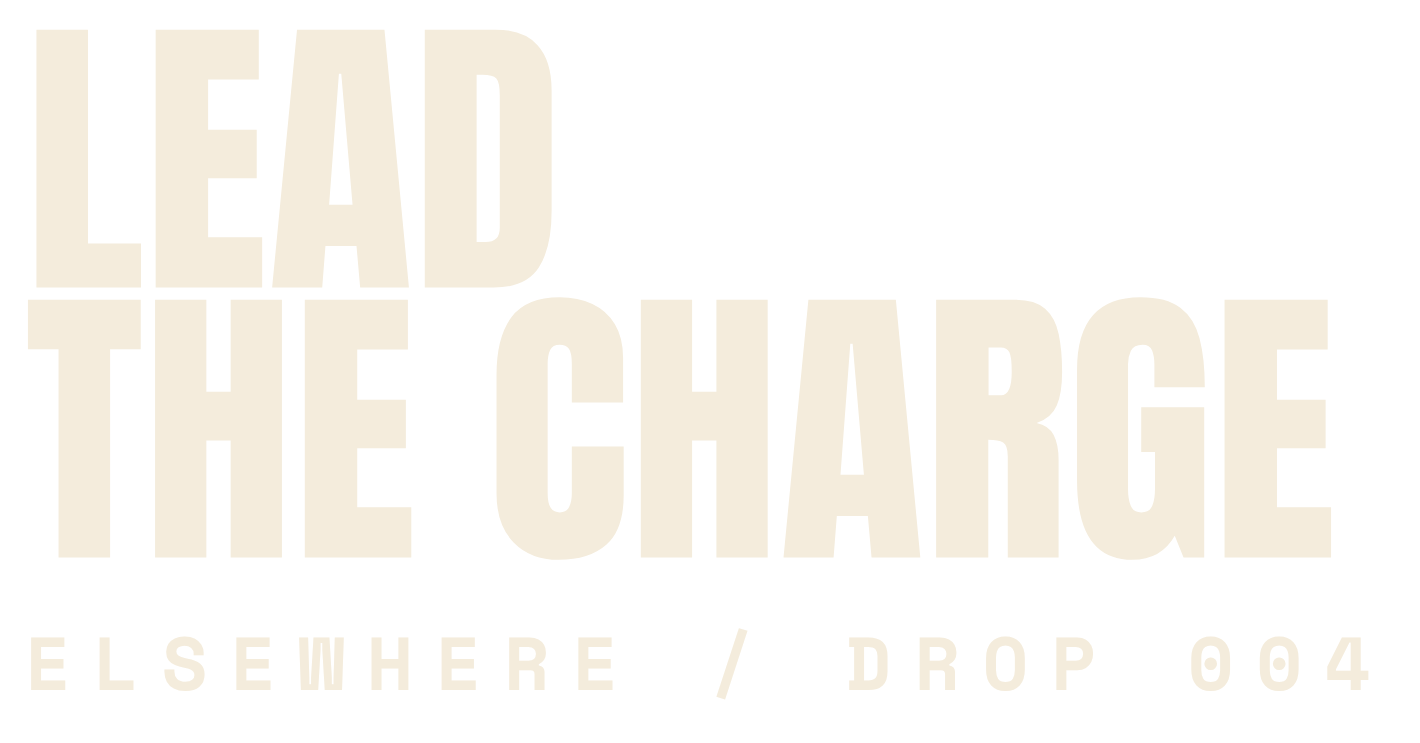
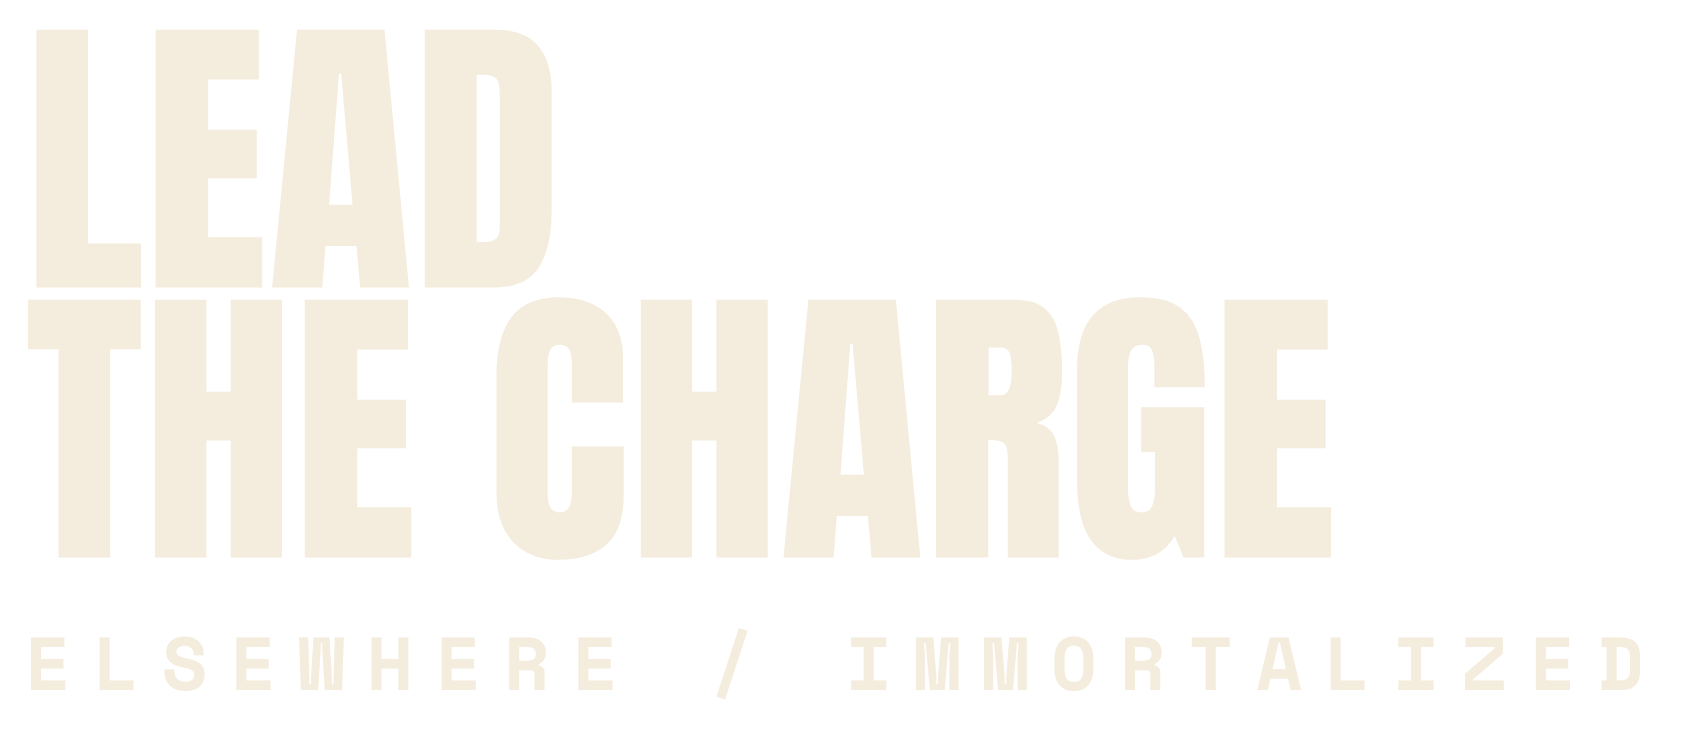
Immortalized Collection: add four paintings, relabel all print files
Claude-Session: https://claude.ai/code/session_01T2BjBwV7d2vTxpMeBzrFvG

Changed region(s): [[0.0, 0.031, 0.9606, 0.7739], [0.4958, 0.8358, 0.9915, 0.9287], [0.0, 0.8358, 0.4648, 0.9287]]

diff --git a/designs/src/render_drop4.js b/designs/src/render_drop4.js
@@ -1,4 +1,4 @@
-// Drop 004 print files: each painting framed like a vintage poster with its title underneath (back),
+// The Immortalized Collection print files: each painting framed like a vintage poster with its title underneath (back),
 // and a small chest mark (front). White type, for dark garments.
 // Usage: node designs/src/render_drop4.js
 
@@ -17,6 +17,10 @@ const designs = [
   ['02-rise-from-ruin', 'Rise From Ruin', 'Down bad. Getting up anyway.', ['Rise', 'From Ruin']],
   ['03-sleep-paralysis-club', 'Sleep Paralysis Club', 'Members only. Meetings at 3 a.m.', ['Sleep Paralysis', 'Club']],
   ['04-one-way-ferry', 'One Way Ferry', 'No return ticket required.', ['One Way', 'Ferry']],
+  ['05-born-ready', 'Born Ready', 'Arrived fashionably late. On a shell.', ['Born', 'Ready']],
+  ['06-fallen-not-finished', 'Fallen, Not Finished', 'Heaven can wait. So can I.', ['Fallen,', 'Not Finished']],
+  ['07-above-it-all', 'Above It All', 'Physically here. Mentally up there.', ['Above', 'It All']],
+  ['08-going-with-the-flow', 'Going With the Flow', 'Floating through it.', ['Going With', 'the Flow']],
 ];
 
 const css = `
@@ -39,7 +43,7 @@ function back(name, title, line) {
   </style></head><body><div id="art">
     <div class="frame"><img src="${img}"></div>
     <div class="title">${title}</div>
-    <div class="row"><div class="label">Elsewhere Supply Co. / Drop 004</div><div class="line">${line}</div></div>
+    <div class="row"><div class="label">Elsewhere Supply Co. / Immortalized</div><div class="line">${line}</div></div>
   </div></body></html>`;
 }
 
@@ -49,7 +53,7 @@ function front(lines) {
     .t{font-family:'Anton';font-size:120px;line-height:.9;text-transform:uppercase;white-space:nowrap}
     .label{font-size:30px;margin-top:16px}
   </style></head><body><div id="art"><div class="t">${lines.join('<br>')}</div>
-    <div class="label">Elsewhere / Drop 004</div></div></body></html>`;
+    <div class="label">Elsewhere / Immortalized</div></div></body></html>`;
 }
 
 (async () => {
